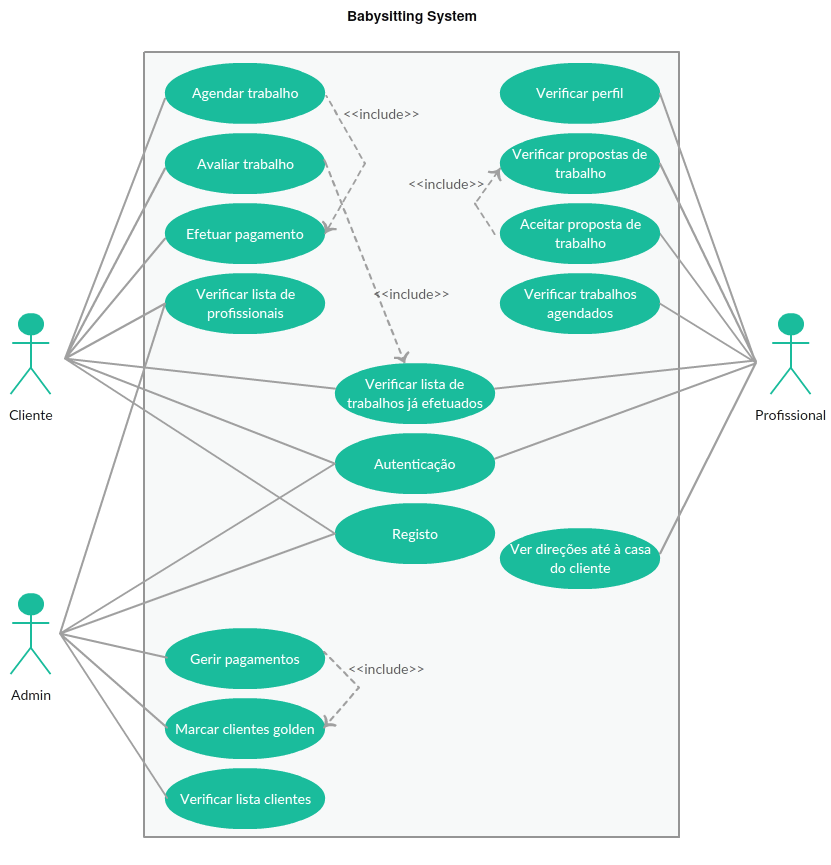
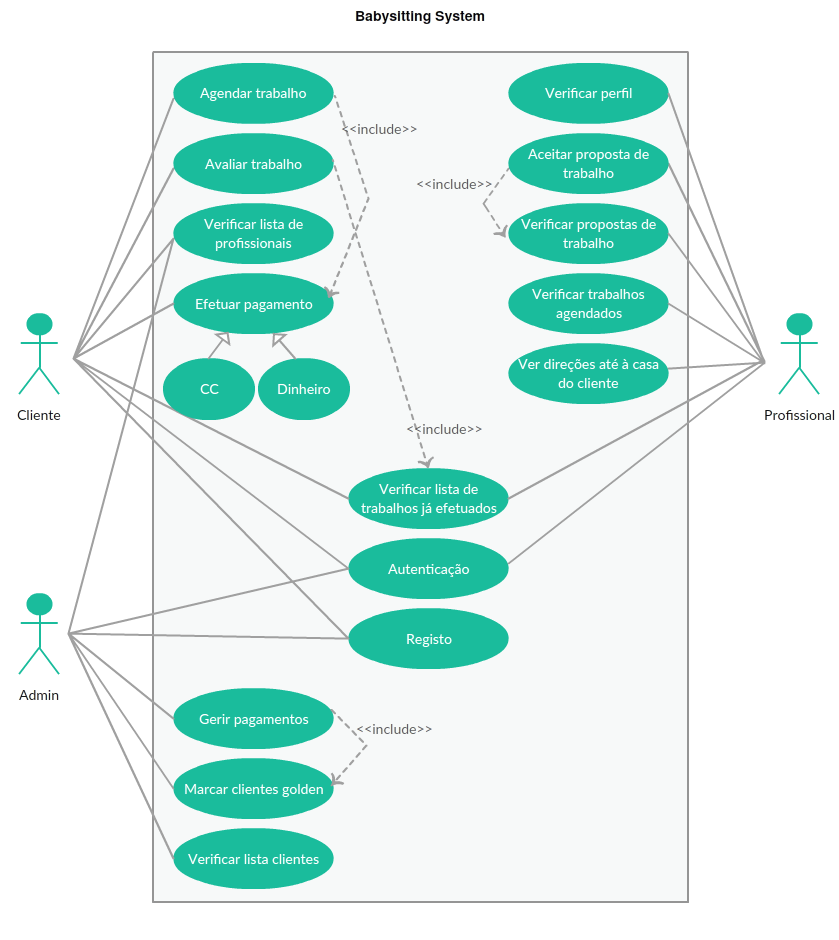
updated requirements and use cases

Changed region(s): [[0.0, 0.0, 1.0, 0.9676], [0.4513, 0.3121, 0.5415, 0.3434]]

diff --git a/II Fase/README.md b/II Fase/README.md
@@ -38,7 +38,7 @@
 
 ### Realizar pagamento (ao infantário, não ao babysitter)
 #### Definição de requisitos de utilizador
-* O utilizador deve poder realizar o pagamento do serviço, antes da realização do mesmo (depois de confirmado o agendamento).
+* O utilizador deve poder realizar o pagamento do serviço (em dinheiro ou online), antes da realização do mesmo (depois de confirmado o agendamento).
 
 #### Especificação de requisitos de sistema
 * O sistema deverá permitir que seja elaborado um método de pagamento (online), que será sempre a favor do infantário (que acordará depois o pagamento com os respectivos profissionais). Este método é utilizado aquando do agendamento do trabalho.
